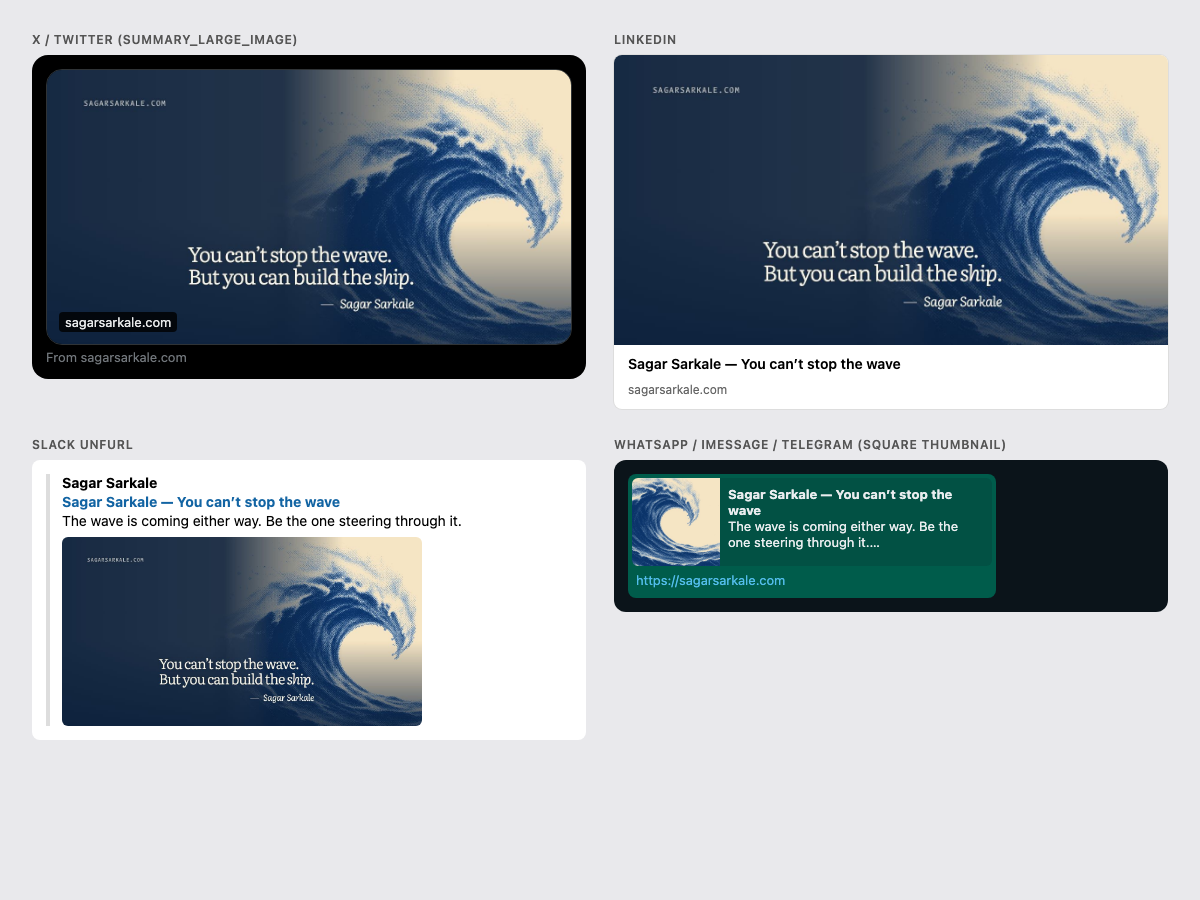
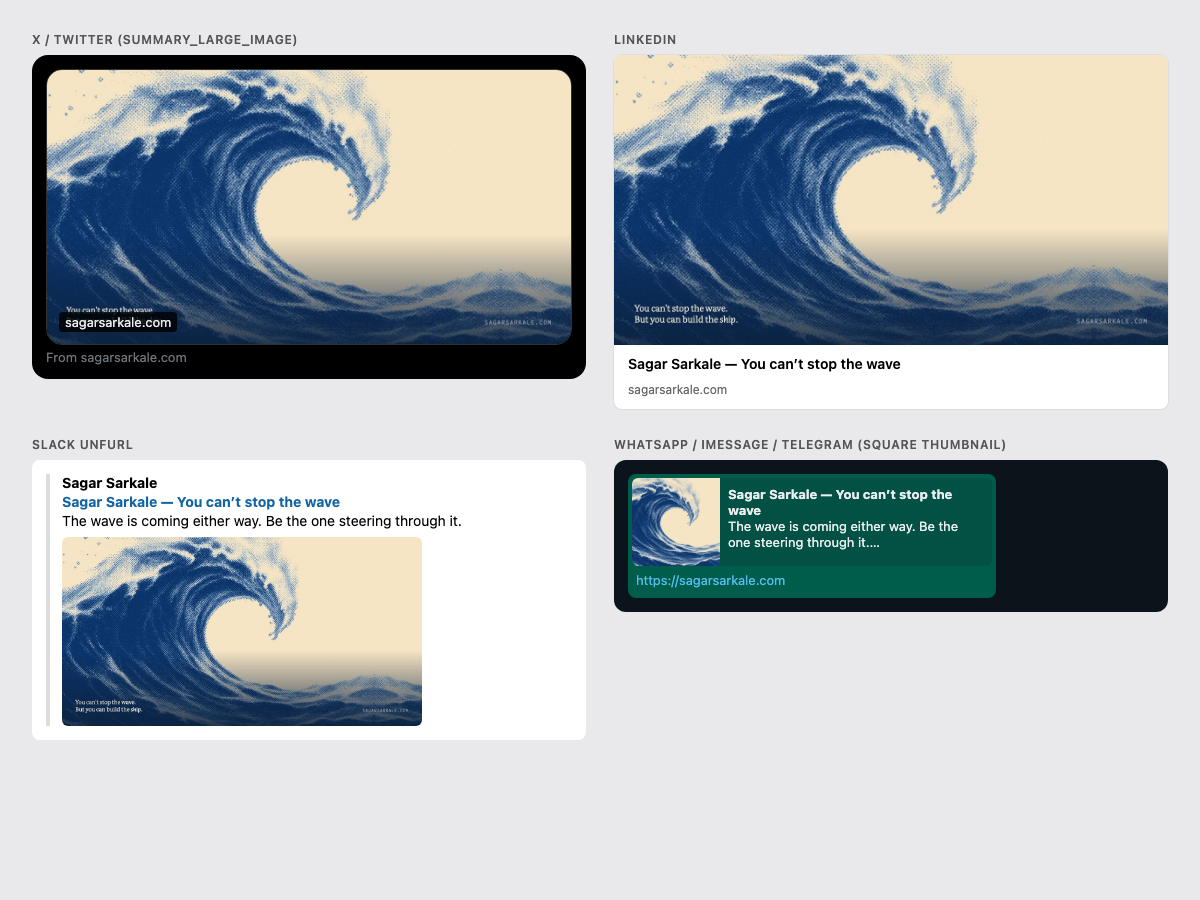
Centre every share image on the wave crest
The crest now sits at the centre of the wide cards, Slack's centre crop
and the square thumbnail, with a small unsigned quote in the water.

Changed region(s): [[0.0308, 0.0622, 0.9867, 0.4044], [0.0308, 0.5911, 0.37, 0.8089], [0.8325, 0.3733, 0.8633, 0.4044]]

diff --git a/src/app/layout.tsx b/src/app/layout.tsx
@@ -41,7 +41,7 @@ export const metadata: Metadata = {
         width: 1200,
         height: 630,
         type: 'image/jpeg',
-        alt: 'A breaking indigo halftone wave with the words: You can’t stop the wave. But you can build the ship. — Sagar Sarkale',
+        alt: 'The curling crest of a breaking indigo halftone wave, with the words: You can’t stop the wave. But you can build the ship.',
       },
       // Square crest for apps that show a square thumbnail instead of a card.
       {
@@ -57,7 +57,7 @@ export const metadata: Metadata = {
     card: 'summary_large_image',
     title: 'Sagar Sarkale — You can’t stop the wave',
     description: 'The wave is coming either way. Be the one steering through it.',
-    images: [{ url: '/social/home.jpg', alt: 'Sagar Sarkale over a breaking indigo halftone wave.' }],
+    images: [{ url: '/social/home.jpg', alt: 'The curling crest of a breaking indigo halftone wave, with the words: You can’t stop the wave. But you can build the ship.' }],
     creator: '@sagar_sarkale',
   },
 };
